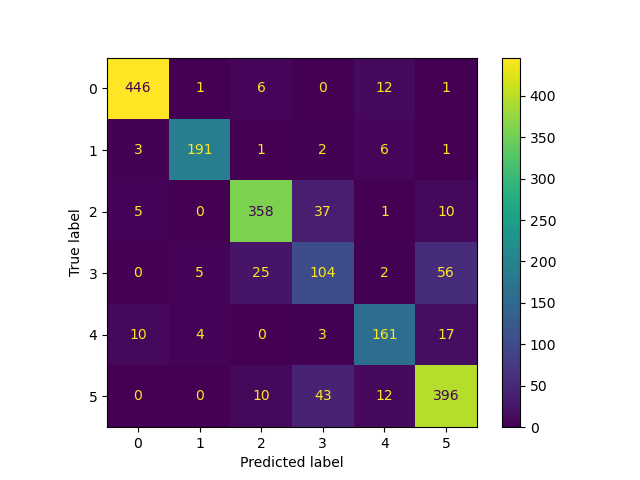
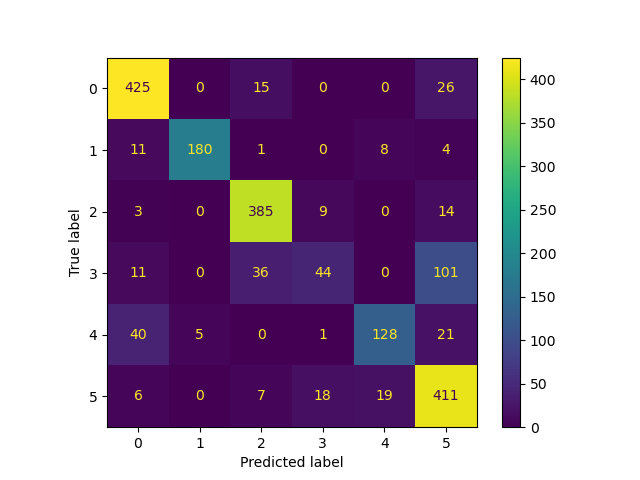
Added cross-validation and its scores.

diff --git a/Ex1/Loan/Naive Bayes.py b/Ex1/Loan/Naive Bayes.py
@@ -2,7 +2,7 @@ import time
 import pandas as pd
 import numpy as np
 from sklearn.preprocessing import LabelEncoder
-from sklearn.model_selection import train_test_split  # Import train_test_split function
+from sklearn.model_selection import train_test_split, cross_val_score  # Import train_test_split function
 from sklearn.naive_bayes import GaussianNB, MultinomialNB, CategoricalNB
 from sklearn.metrics import (
     accuracy_score,
@@ -32,17 +32,17 @@ def classify():
     x_train, x_test, y_train, y_test = train_test_split(x, y, test_size=0.3, random_state=1)  # 70% train, 30% test
 
     # Create Naive Bayes classifier
-    model = GaussianNB(var_smoothing=1e-12)
+    clf = GaussianNB(var_smoothing=1e-12)
 
     start = time.time()
 
     # Train the model
-    model.fit(x_train, y_train)
+    clf.fit(x_train, y_train)
 
     end = time.time()
     elapsed_time = end - start
 
-    y_pred = model.predict(x_test)
+    y_pred = clf.predict(x_test)
 
     # Model accuracy
     accuracy = accuracy_score(y_pred, y_test)
@@ -56,6 +56,16 @@ def classify():
     cm = confusion_matrix(y_test, y_pred)
     disp = ConfusionMatrixDisplay(confusion_matrix=cm)
     disp.plot().figure_.savefig('NB_confusion_matrix.png')
+
+    # Cross validation scores
+    start = time.time()
+    scores = cross_val_score(clf, x, y, cv=5)
+    end = time.time()
+    elapsed_time = end - start
+    print("Cross validation yielded %0.2f accuracy with a standard deviation of %0.2f in time %0.2f s" % (
+        scores.mean(),
+        scores.std(),
+        elapsed_time))
 
 
 if __name__ == '__main__':

diff --git a/Ex1/Satimages/DecisionTree.py b/Ex1/Satimages/DecisionTree.py
@@ -4,7 +4,7 @@ import time
 from scipy.io import arff
 import pandas as pd
 from sklearn.tree import DecisionTreeClassifier  # Import Decision Tree Classifier
-from sklearn.model_selection import train_test_split  # Import train_test_split function
+from sklearn.model_selection import train_test_split, cross_val_score  # Import train_test_split function
 from sklearn.metrics import (
     accuracy_score,
     confusion_matrix,
@@ -39,7 +39,7 @@ def classify():
 
     # Create Decision Tree classifier Object
     # criterion: "gini" (gini index), "log_loss", "entropy" (information gain)
-    clf = DecisionTreeClassifier(criterion="log_loss", max_depth=None)
+    clf = DecisionTreeClassifier(criterion="log_loss", max_depth=4)
 
     start = time.time()
     # Train Decision Tree Classifier
@@ -71,6 +71,15 @@ def classify():
     if graph is not None:
         graph.write_png('./plots/satimage_tree.png')
         Image(graph.create_png())
+
+    # Cross validation scores
+    start = time.time()
+    scores = cross_val_score(clf, x, y, cv=5)
+    end = time.time()
+    elapsed_time = end - start
+    print("Cross validation yielded %0.2f accuracy with a standard deviation of %0.2f in time %0.2f s" % (scores.mean(),
+                                                                                                        scores.std(),
+                                                                                                        elapsed_time))
 
 
 if __name__ == '__main__':

diff --git a/Ex1/Loan/NN.py b/Ex1/Loan/NN.py
@@ -1,6 +1,6 @@
 import time
 import pandas as pd
-from sklearn.model_selection import train_test_split  # Import train_test_split function
+from sklearn.model_selection import train_test_split, cross_val_score  # Import train_test_split function
 from sklearn.preprocessing import StandardScaler, OneHotEncoder
 from sklearn.pipeline import Pipeline
 from sklearn.compose import ColumnTransformer
@@ -102,6 +102,16 @@ def classify():
     cm = confusion_matrix(y_test, y_pred)
     disp = ConfusionMatrixDisplay(confusion_matrix=cm)
     disp.plot().figure_.savefig('NN-MLP_confusion_matrix.png')
+
+    # Cross validation scores
+    start = time.time()
+    scores = cross_val_score(pipe, x, y, cv=5)
+    end = time.time()
+    elapsed_time = end - start
+    print("Cross validation yielded %0.2f accuracy with a standard deviation of %0.2f in time %0.2f s" % (
+        scores.mean(),
+        scores.std(),
+        elapsed_time))
 
 
 if __name__ == '__main__':

diff --git a/Ex1/Loan/DecisionTree.py b/Ex1/Loan/DecisionTree.py
@@ -3,7 +3,7 @@ import time
 
 import pandas as pd
 from sklearn.tree import DecisionTreeClassifier  # Import Decision Tree Classifier
-from sklearn.model_selection import train_test_split  # Import train_test_split function
+from sklearn.model_selection import train_test_split, cross_val_score  # Import train_test_split function
 from sklearn.metrics import (
     accuracy_score,
     confusion_matrix,
@@ -70,6 +70,16 @@ def classify():
     if graph is not None:
         graph.write_png('./plots/loan_tree.png')
         Image(graph.create_png())
+
+    # Cross validation scores
+    start = time.time()
+    scores = cross_val_score(clf, x, y, cv=5)
+    end = time.time()
+    elapsed_time = end - start
+    print("Cross validation yielded %0.2f accuracy with a standard deviation of %0.2f in time %0.2f s" % (
+            scores.mean(),
+            scores.std(),
+            elapsed_time))
 
 
 if __name__ == '__main__':
